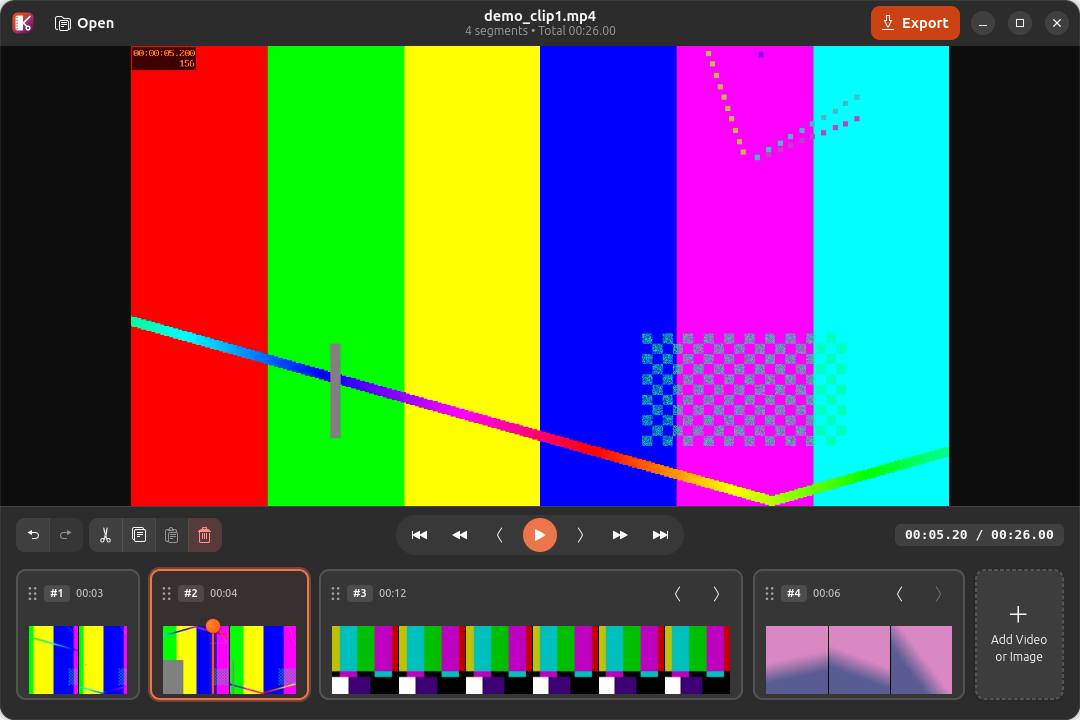
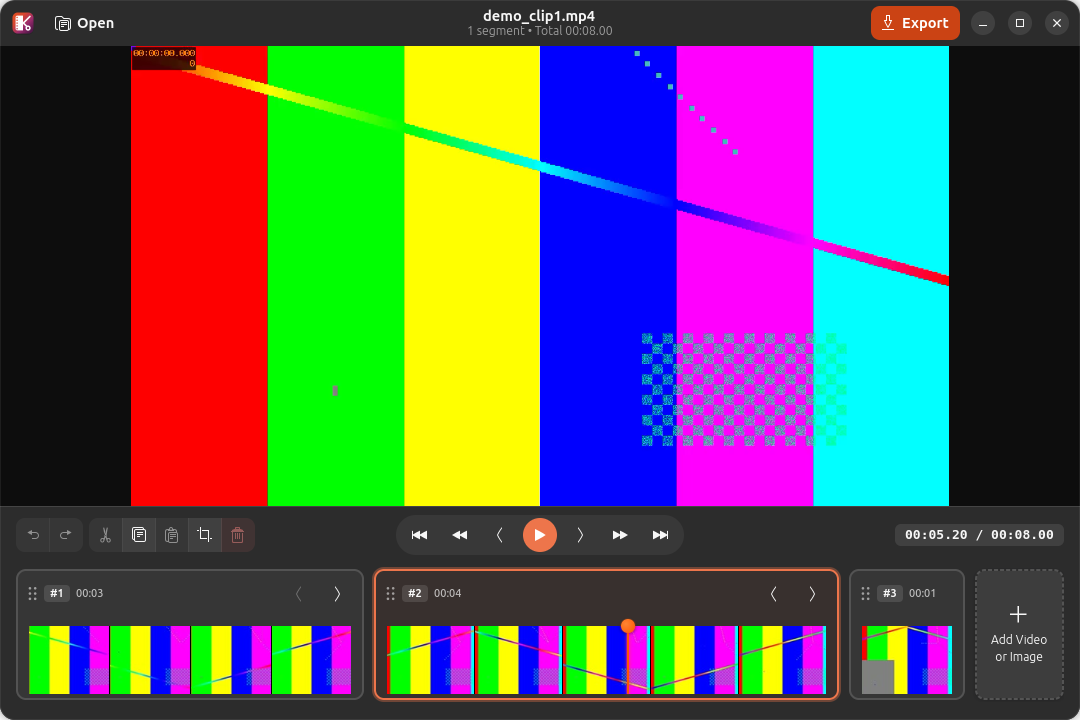
docs: update README and application screenshot with latest features

diff --git a/README.md b/README.md
@@ -8,22 +8,48 @@ A simple, fast, and modern Python GTK 4 / Libadwaita tool to edit and cut videos
 
 ## Features
 
-- **Large Video Player**: Full preview canvas with zero hover obstructions, hardware-accelerated via GStreamer and GTK 4.
-- **Filmstrip Timeline with Thumbnails**: Storyboard-style clip sequence displaying thumbnail contact frames for each segment, with ultra-fast initial thumbnail (< 50ms) and keyframe extraction (600x realtime).
-- **Centralized Playhead Needle**: Clear, thin vertical bar with a prominent orange ball, perfectly centralized on top of thumbnail images to show exactly where the cut will occur.
-- **Split at Cursor**: Slice clips at cursor position (<kbd>S</kbd>, hover pill over the cursor, or right-click context menu).
-- **Undo & Redo**: Full undo/redo history for splits, deletions, reorders, and clip additions (<kbd>Ctrl+Z</kbd>, <kbd>Ctrl+Shift+Z</kbd> / <kbd>Ctrl+Y</kbd>).
-- **Delete Segment**: Remove selected segment (<kbd>Delete</kbd>, <kbd>Backspace</kbd>, bottom timeline button, or right-click context menu).
-- **Reorder Segments**: Drag and drop clips or use Move Left (<kbd>◀</kbd> / <kbd>Alt+Left</kbd>) and Move Right (<kbd>▶</kbd> / <kbd>Alt+Right</kbd>) buttons.
-- **Add Video or Image as Segment**: Insert or append another video file (MP4, MKV, MOV, WebM, AVI) or image (PNG, JPG, JPEG, WEBP, BMP, etc. automatically converted to a 1-second segment) into the timeline using the prominent Add card.
-- **Integrated Compact Transport Controls**: Located neatly in the bottom gray area:
-  - Skip to previous / next segment (`Home` / `End`)
-  - Previous / next single frame (`<` `,` / `>` `.`)
-  - Step backward / forward 1 second (`Left` / `Right`)
-  - Play / Pause (`Space`)
-- **Smart Export Naming**: Automatically defaults to the original video name with `_edited.mp4` (e.g. `vacation_edited.mp4`).
-- **High-Quality Export**: Combines and renders all segments into a seamless MP4 using FFmpeg filter complex (accurate cuts, zero audio drift, automatic resolution and sample rate standardization).
-- **Real-Time Export Progress**: Export dialog with live percentage and duration progress.
+- **Large Video Player**: Full preview canvas with zero hover obstructions, hardware-accelerated via GStreamer and GTK 4, featuring real-time preview of crop, rotation, and flip transformations.
+- **Crop, Rotate & Flip**:
+  - Interactive crop canvas with draggable bounding box and corner/edge handles.
+  - Aspect ratio presets: Free, Original, 16:9, 9:16, 1:1, 4:3, and 21:9.
+  - 90° clockwise (<kbd>⟳</kbd>) and counter-clockwise (<kbd>⟲</kbd>) rotation.
+  - Horizontal (<kbd>⇄</kbd>) and vertical (<kbd>⇅</kbd>) flipping.
+  - Fast keyboard access with <kbd>C</kbd>.
+- **Proportional Filmstrip Timeline**:
+  - Segments scale proportionally based on their duration relative to total timeline length.
+  - Enforced minimum thumbnail width (80px) to prevent narrow, illegible slivers on short clips.
+  - Intelligent single-thumbnail fallback for short segments.
+  - Centralized orange playhead needle showing the exact cut position directly over frames.
+- **High-Performance Thumbnail Engine**:
+  - Parallel multi-threaded demuxer seek extraction (< 2.5s for 4-minute 1080p HEVC video).
+  - Instant first-frame extraction (< 50ms) and persistent disk index caching for instantaneous project reloads.
+  - Smooth animated spinner loading feedback while thumbnails are being generated.
+- **Image Import with Duration & Soundtrack Attachment**:
+  - Import photos and graphics (PNG, JPG, JPEG, WEBP, BMP, GIF, etc.) into the timeline as video clips.
+  - Customizable clip duration (0.5s to 300s) with quick presets (1s, 3s, 5s, 10s).
+  - Attach optional background music or voiceover soundtrack (`.mp3`, `.wav`, `.aac`, `.m4a`, `.ogg`, `.flac`).
+  - Audio start offset slider and real-time audio slice preview player.
+- **Internationalization (i18n)**:
+  - Automatic system language detection (`LANG`, `LC_ALL`, `LANGUAGE`).
+  - Native translations for:
+    - 🇺🇸 **English** (`en_US` / default)
+    - 🇪🇸 **Spanish** (`es`)
+    - 🇧🇷 **Portuguese (Brazil)** (`pt_BR`)
+    - 🇫🇷 **French** (`fr`)
+- **Clipboard & Edit Toolbar**:
+  - Dedicated edit toolbar directly below the canvas with Split (<kbd>S</kbd>), Copy (<kbd>Ctrl+C</kbd>), Paste (<kbd>Ctrl+V</kbd>), Crop & Rotate (<kbd>C</kbd>), Delete (<kbd>Del</kbd>/<kbd>Backspace</kbd>), and Move Left/Right (<kbd>Alt+Left</kbd> / <kbd>Alt+Right</kbd>).
+- **Split at Cursor**: Slice clips at the cursor position (<kbd>S</kbd>, toolbar button, or right-click context menu).
+- **Full Undo & Redo**: Unlimited undo/redo history for splits, deletions, reorders, paste operations, transformations, and clip additions (<kbd>Ctrl+Z</kbd>, <kbd>Ctrl+Shift+Z</kbd> / <kbd>Ctrl+Y</kbd>).
+- **Reorder Segments**: Drag and drop clips or use Move Left (<kbd>◀</kbd> / <kbd>Alt+Left</kbd>) and Move Right (<kbd>▶</kbd> / <kbd>Alt+Right</kbd>).
+- **Integrated Compact Transport Controls**:
+  - Skip to previous / next segment (<kbd>Home</kbd> / <kbd>End</kbd>)
+  - Previous / next single frame (<kbd>,</kbd> / <kbd>.</kbd>)
+  - Step backward / forward 1 second (<kbd>Left</kbd> / <kbd>Right</kbd>)
+  - Play / Pause (<kbd>Space</kbd>)
+- **High-Quality Export**:
+  - Seamless MP4 rendering via FFmpeg `filter_complex` (accurate cuts, zero audio drift, resolution standardization, crop, rotation, flip, and soundtrack muxing).
+  - Smart automatic naming defaulting to `<original_name>_edited.mp4`.
+  - Real-time export progress modal with percentage and duration indicators.
 - **Custom Application Icon**: Beautiful vector icon combining a film frame and scissors.
 
 ## Requirements
@@ -31,6 +57,7 @@ A simple, fast, and modern Python GTK 4 / Libadwaita tool to edit and cut videos
 - Python 3.10+
 - GTK 4 & Libadwaita (`gir1.2-gtk-4.0`, `gir1.2-adw-1`, `python3-gi`)
 - FFmpeg & FFprobe (`ffmpeg`, `ffprobe`)
+- GStreamer GTK 4 plugins (`gstreamer1.0-gtk4`)
 
 On Ubuntu / Debian:
 ```bash
@@ -40,7 +67,7 @@ sudo apt install python3-gi gir1.2-gtk-4.0 gir1.2-adw-1 gstreamer1.0-gtk4 ffmpeg
 ## Installation
 
 ```bash
-# Set up a virtual environment sharing system site-packages (for GTK4 bindings)
+# Set up a virtual environment sharing system site-packages (for GTK 4 bindings)
 python3 -m venv --system-site-packages .venv
 source .venv/bin/activate
 
@@ -64,30 +91,38 @@ video-cut /path/to/my_video.mp4
 
 | Shortcut | Action |
 | :--- | :--- |
-| `Space` | Play / Pause |
-| `,` (comma) | Step backward 1 frame (~0.033s) |
-| `.` (period) | Step forward 1 frame (~0.033s) |
-| `Left` / `Right` | Step backward / forward 1 second |
-| `Home` / `End` | Jump to start of previous / next segment |
-| `S` | Split at cursor |
-| `Delete` / `Backspace` | Delete selected clip |
-| `Ctrl+Z` | Undo last edit |
-| `Ctrl+Shift+Z` or `Ctrl+Y` | Redo undone edit |
-| `Alt+Left` / `Alt+Right` | Move selected clip earlier / later |
-| `Ctrl+O` | Open video or image file |
-| `Ctrl+E` | Export combined video |
+| <kbd>Space</kbd> | Play / Pause |
+| <kbd>,</kbd> (comma) | Step backward 1 frame (~0.033s) |
+| <kbd>.</kbd> (period) | Step forward 1 frame (~0.033s) |
+| <kbd>Left</kbd> / <kbd>Right</kbd> | Step backward / forward 1 second |
+| <kbd>Home</kbd> / <kbd>End</kbd> | Jump to start of previous / next segment |
+| <kbd>S</kbd> | Split clip at playhead cursor |
+| <kbd>C</kbd> | Crop, Rotate & Flip selected clip |
+| <kbd>Ctrl+C</kbd> | Copy selected clip |
+| <kbd>Ctrl+V</kbd> | Paste copied clip |
+| <kbd>Delete</kbd> / <kbd>Backspace</kbd> | Delete selected clip |
+| <kbd>Ctrl+Z</kbd> | Undo last edit |
+| <kbd>Ctrl+Shift+Z</kbd> or <kbd>Ctrl+Y</kbd> | Redo undone edit |
+| <kbd>Alt+Left</kbd> / <kbd>Alt+Right</kbd> | Move selected clip earlier / later |
+| <kbd>Ctrl+O</kbd> | Open video or image file |
+| <kbd>Ctrl+E</kbd> | Export combined video |
 
 ## Architecture
 
-- `src/video_cut/models.py`: Data models for `Segment` and `ProjectTimeline` with undo/redo snapshot stack.
+- `src/video_cut/models.py`: Core domain models (`Segment`, `ProjectTimeline`, `TransformState`) and snapshot-based undo/redo.
 - `src/video_cut/services/`:
-  - `probe_service.py`: `ffprobe` metadata extraction (duration, dimensions, framerate).
-  - `thumbnail_service.py`: Asynchronous thumbnail generator & cache with instant first-frame and 600x realtime keyframe extraction.
-  - `image_service.py`: Detection and conversion of images (PNG, JPG, WEBP, etc.) into 1-second video segments.
-  - `export_service.py`: FFmpeg `filter_complex` concatenation engine with live progress parsing.
-- `src/video_cut/player.py`: Multi-segment monotonic clock playback controller using `Gtk.Picture` and `Gtk.MediaFile`.
-- `src/video_cut/timeline_widget.py` & `segment_card.py`: Filmstrip UI, centralized playhead needle, compact transport controls, and drag-and-drop reordering.
-- `src/video_cut/window.py`: Libadwaita application window with HeaderBar actions, keyboard shortcuts, undo/redo handling, and export modal.
+  - `probe_service.py`: `ffprobe` metadata extraction (duration, resolution, framerate, codecs).
+  - `thumbnail_service.py`: Multi-threaded parallel demuxer seek thumbnail extraction engine with persistent disk caching.
+  - `image_service.py`: Image-to-video synthesis with customizable duration, aspect-ratio scaling, and optional audio track muxing.
+  - `export_service.py`: FFmpeg `filter_complex` concatenation and rendering engine handling crops, rotations, flips, and audio synchronization.
+- `src/video_cut/i18n.py` & `src/video_cut/locale/`: Gettext runtime with automatic system locale detection and translation catalog files (`.po` / `.mo`) for `en_US`, `es`, `pt_BR`, and `fr`.
+- `src/video_cut/dialogs/`:
+  - `crop_rotate_dialog.py`: Interactive crop canvas with drag handles, rotation (90° CW/CCW), flip (H/V), and aspect ratio presets.
+  - `image_import_dialog.py`: Modal for image import duration selection, background soundtrack attachment, and audio preview.
+  - `export_dialog.py`: Real-time rendering dialog with percentage and time indicators.
+- `src/video_cut/player.py`: Hardware-accelerated playback pipeline supporting seamless multi-segment sequencing and live transformations.
+- `src/video_cut/timeline_widget.py` & `segment_card.py`: Proportional timeline layout, dynamic thumbnail sizing (80px minimum), centralized orange playhead needle, and drag-and-drop sequencing.
+- `src/video_cut/window.py`: Libadwaita main application window with HeaderBar actions, edit toolbar, keyboard shortcuts, and state coordination.
 
 ## Running Tests
 
